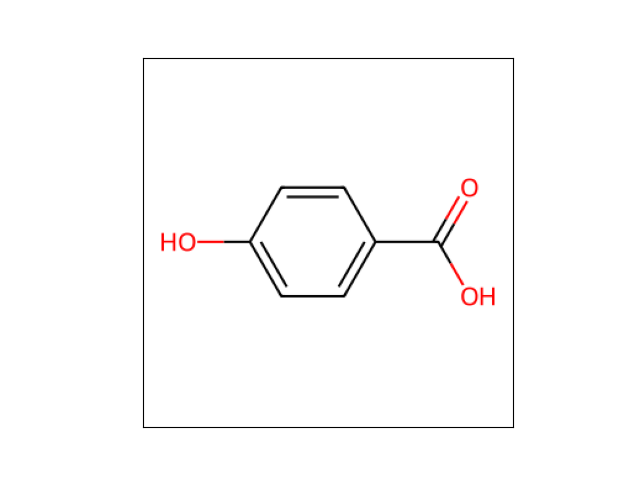
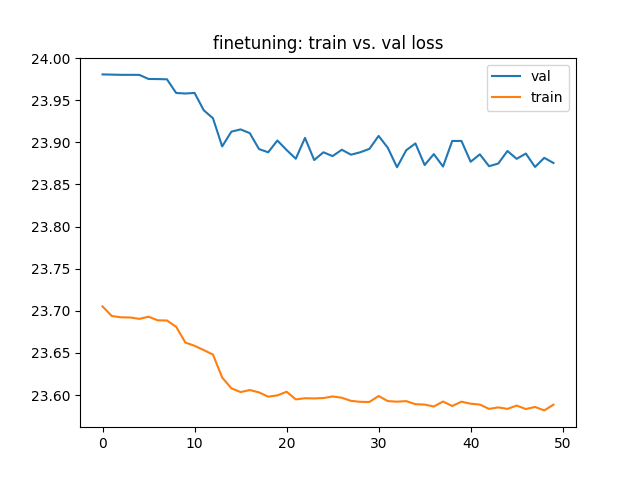
Add inference explainer

diff --git a/explainer.py b/explainer.py
@@ -1,0 +1,94 @@
+
+import random
+from rdkit import Chem
+import torch
+from torch_geometric import explain
+from torch_geometric.explain import Explanation, Explainer, ModelConfig
+from pickle import NONE
+from rdkit.Chem.Draw import rdMolDraw2D
+from rdkit.Chem import rdDepictor
+from matplotlib import colors
+# from rdkit.Chem.Draw import IPythonConsole
+# from IPython.display import SVG
+
+
+
+
+# get explanations for all of test set
+# all_ob_explanations = []
+# for graph_idx in range(len(test_set)):
+#   data = test_set[graph_idx]
+#   x, edge_index = data.x, data.edge_index
+#   ob_explanation = ob_explainer(x, edge_index, batch=torch.tensor([0]))
+#   all_ob_explanations.append(ob_explanation)
+
+
+def atom_col(atom_imp):
+  col = {}
+  threshold = torch.mean(atom_imp)
+  for i, imp in enumerate(atom_imp):
+    if imp > threshold:
+      col[i] = colors.to_rgb("#1BBC9B")
+    else:
+      col[i] = colors.to_rgb('#D3D3D3')
+  return col
+    
+# Assign colors to edges with higher than average scores
+def bond_col(mol, bond_imp, edge_id, threshold=0.5):
+  col = {}
+  threshold = sum(bond_imp) / len(bond_imp)
+  for idx, bond in enumerate(mol.GetBonds()):
+      i, j = bond.GetBeginAtomIdx(), bond.GetEndAtomIdx()
+      i, j = min(i, j), max(i, j)
+      imp = bond_imp[edge_id.index((i, j))]
+      if imp > threshold:
+        col[i] = colors.to_rgb("#F06060")
+      else:
+        col[i] = colors.to_rgb('#D3D3D3')
+  return col
+
+# Generate visualization for a molecule
+def visualize_molecule_explanation(dataset, graph_idx, ob_explainer):
+  data = dataset[graph_idx]
+  x, edge_index, edge_attr = data.x, data.edge_index, data.edge_attr
+  ob_explanation = ob_explainer(x, edge_index)
+  atom_imp = ob_explanation.node_mask
+  bond_imp = []
+  edge_idx = []
+  # average the two "directional" edges for score of undirected edge
+  for i in range(len(ob_explanation.edge_mask)):
+    a, b = ob_explanation.edge_index[0][i].cpu(), ob_explanation.edge_index[1][i].cpu()
+    if a < b:
+      edge_idx.append((a, b))
+      temp = NONE
+      for i in range(len(edge_index[0])):
+        if edge_index[0][i].item() == b.item() and edge_index[1][i].item() == a.item():
+          temp = i
+          break
+      bond_imp.append((ob_explanation.edge_mask[i]+ob_explanation.edge_mask[temp])/2)
+  mol = Chem.MolFromSmiles(data.smiles)
+  cp = Chem.Mol(mol)
+  # generate colors according to importance scores
+  highlightAtomColors = atom_col(atom_imp)
+  highlightAtoms = list(highlightAtomColors.keys())
+  highlightBondColors = bond_col(mol, bond_imp, edge_idx)
+  highlightBonds = list(highlightBondColors.keys())
+
+  # draw image
+  image_width, image_height = 400, 200
+  rdDepictor.Compute2DCoords(cp, canonOrient=True)
+  drawer = rdMolDraw2D.MolDraw2DCairo(image_width, image_height)
+  drawer.drawOptions().useBWAtomPalette()
+  drawer.DrawMolecule(
+      cp,
+      highlightAtoms=highlightAtoms,
+      highlightAtomColors=highlightAtomColors,
+      highlightBonds=highlightBonds,
+      highlightBondColors=highlightBondColors,
+  )
+  drawer.FinishDrawing()
+  drawer.WriteDrawingText(f"./figures/explainations/{graph_idx}.png")
+
+
+if __name__ == '__main__':
+  pass

diff --git a/main.py b/main.py
@@ -1,17 +1,37 @@
 
 import pandas as pd 
+import random
+import matplotlib.pyplot as plt
 from rdkit import Chem
 from dataset import create_pytorch_geometric_graph_list, create_dataloaders
 from models import odorGIN
 from train import train_single_epoch, test, train
 import torch
+from rdkit.Chem import Draw
+from torch_geometric.explain import Explanation, Explainer, ModelConfig
+from torch_geometric import explain
+from explainer import visualize_molecule_explanation
+
+# WIP: embedding space.
 
 if __name__ == '__main__':
 
     df_path = 'data/Multi-Labelled_Smiles_Odors_dataset.csv'
     odor_df = pd.read_csv(df_path)
 
-    m = Chem.MolFromSmiles(odor_df['nonStereoSMILES'][5])
+    # Molecule Visualization 
+    # fig, axs = plt.subplots(nrows=5, ncols=2, figsize=(3, 7))
+    # for i in range(20):
+    #     m = Chem.MolFromSmiles(odor_df['nonStereoSMILES'][i])
+    #     img = Draw.MolToImage(m)
+    #     axs[i%5][i%2].imshow(img)
+    #     axs[i%5][i%2].set_xticks([])
+    #     axs[i%5][i%2].set_yticks([])
+
+    # # plt.xticks([])
+    # # plt.yticks([])
+    # fig.tight_layout()
+    # plt.show()
 
 
     X = odor_df.iloc[:, 0]
@@ -21,7 +41,7 @@ if __name__ == '__main__':
     graph_list = create_pytorch_geometric_graph_list(X, y)
 
     batch_size, use_shuffle = 1, True
-    train_loader, val_loader, test_loader = create_dataloaders(graph_list, 0.7, 0.2, 0.1, batch_size)
+    train_set, val_set, test_set,  train_loader, val_loader, test_loader = create_dataloaders(graph_list, 0.7, 0.2, 0.1, batch_size)
 
     # hyperparamters 
     hidden_channels = 64
@@ -33,33 +53,32 @@ if __name__ == '__main__':
     num_epochs = 50
     lr = 1e-4
     weight_decay = 1e-6
+    use_pretrained = False
 
 
     model_GIN = odorGIN.OdorGIN(in_channels, hidden_channels, num_layers)
     optimizer = torch.optim.Adam(model_GIN.parameters(), lr=lr, weight_decay=weight_decay)
 
-    # train_single_epoch(model_GIN, optimizer, train_loader, mode='train')
+
+    # WIP: Hyperparameter tuning
+    # train(model_GIN, num_epochs, lr, weight_decay, train_loader, val_loader)
+
+
+    # Explainer for edge structure
+    # Node mask: for each node object
+    # Edge mask: for each edge object
+    ob_explainer = Explainer(
+        model_GIN, 
+        algorithm=explain.algorithm.GNNExplainer(),
+        explanation_type="model", 
+        model_config=ModelConfig(mode="binary_classification", task_level="graph", return_type="probs"),
+        node_mask_type="object",
+        edge_mask_type="object"
+    )
+
+    # random visualizations
+    idx = random.sample(range(len(test_set)), 5)
+    for i in idx:
+      visualize_molecule_explanation(test_set, i, ob_explainer)
+
     
-    # precision, all_preds, all_trgts =  test(model_GIN, test_loader)
-    train(model_GIN, num_epochs, lr, weight_decay, train_loader, val_loader)
-
-
-
-
-    # for i, batch in enumerate(train_loader):
-
-    #     X, edge_index, edge_attr, y = batch.x, batch.edge_index, batch.edge_attr, batch.y
-    #     print(batch, end="\n")
-    #     y_pred = model_GIN(X, edge_index, edge_attr)
-
-    #     break
-
-
-
-
-
-    
-
-
-
-

diff --git a/dataset.py b/dataset.py
@@ -1,4 +1,4 @@
-
+import torch_geometric.utils as pyg_utils
 import numpy as np
 from utils import label_encoding
 import pandas as pd 
@@ -77,6 +77,7 @@ def create_pytorch_geometric_graph_list(x_smiles, y):
     '''
         
     data_list = []
+    # data_list = [pyg_utils.smiles.from_smiles(x_smiles[i]) for i in range(len(x_smiles))]
     
     for (smiles, y_val) in zip(x_smiles, y):
         
@@ -118,7 +119,7 @@ def create_pytorch_geometric_graph_list(x_smiles, y):
         y_tensor = torch.tensor(y_val, dtype = torch.float)
         
         # construct Pytorch Geometric data object and append to data list
-        data_list.append(Data(x = X, edge_index = E, edge_attr = EF, y = y_tensor))
+        data_list.append(Data(x = X, edge_index = E, edge_attr = EF, y = y_tensor, smiles=smiles))
 
     return data_list
 
@@ -135,7 +136,7 @@ def create_dataloaders(graph_list: list, train_ratio: float, val_ratio: float, t
     val_loader = DataLoader(val_set, batch_size=batch_size, shuffle=use_shuffle, drop_last=True)
     test_loader = DataLoader(test_set, batch_size=batch_size, shuffle=use_shuffle, drop_last=True)
 
-    return train_loader, val_loader, test_loader
+    return train_set, val_set, test_set,  train_loader, val_loader, test_loader
 
 
 

diff --git a/train.py b/train.py
@@ -4,6 +4,7 @@ from tqdm import tqdm
 import matplotlib.pyplot as plt 
 from utils import plot_losses
 from sklearn.metrics import f1_score, roc_auc_score
+# from torch_geometric.nn import save_pretrained
 
 
 softmax_cutoff = 0.005
@@ -22,7 +23,7 @@ def train_single_epoch(model, optimizer, train_loader, mode):
     for data in train_loader:
         # data = data.to(device)
         optimizer.zero_grad()
-        out = model(data.x, data.edge_index, data.batch)
+        out = model(data.x, data.edge_index, data.edge_attr)
         loss = torch.nn.CrossEntropyLoss()(out.squeeze(), data.y)
 
         if mode == "train":
@@ -93,6 +94,8 @@ def train(model, num_epochs, lr, weight_decay, train_loader, val_loader):
         accs.append(test_acc)
         losses.append(loss)
         val_losses.append(val_loss)
+        if( val_losses == [] or  val_loss < min(val_losses)):
+            model.save_pretrained('./models/odorGIN.pth', push_to_hub=False)
 
     best_f1_score = max(f1_scores)
     best_f1_epoch = f1_scores.index(best_f1_score)

diff --git a/models/odorGIN.py b/models/odorGIN.py
@@ -42,7 +42,7 @@ class OdorGIN(torch.nn.Module):
         self.gnn.reset_parameters()
         self.classifier.reset_parameters()
 
-    def forward(self, x, edge_index, edge_attr, batch=torch.tensor([0])):
+    def forward(self, x, edge_index, edge_attr=None, batch=torch.tensor([0])):
         h = self.gnn(x, edge_index, edge_attr=edge_attr)
         return self.classifier(h, batch)
 
